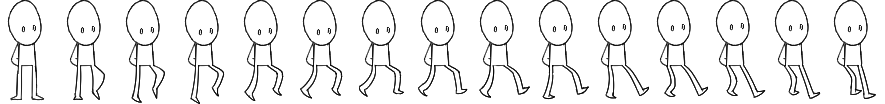
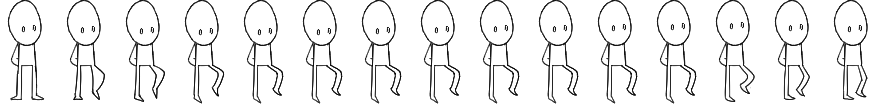
Fixed player movement (almost, jumping is weird)

diff --git a/Source/Entity.cpp b/Source/Entity.cpp
@@ -11,14 +11,14 @@
 #include "Application.h"
 #include "Timer.h"
 
-#define BOUNDED(var) (var > -0.001f && var < 0.001f)
+#define BOUNDED(var) (var > -0.0000001f && var < 0.0000001f)
 
 /*************************** ENTITY IMPLEMENTATIONS ******************************/
 
 // Entity constructor which will provide basic establishment for all entities
 Entity::Entity(int x_pos, int y_pos, double height, double width, Application* application) : 
    Element(x_pos, y_pos, height, width, application),
-   has_jumped_(false), health(0), shift_(false) {
+   has_jumped_(0), health(0), shift_(false) {
 }
 
 // Update function for all entities. For now all it does is call move
@@ -68,7 +68,8 @@ Player::Player(Application* application) :
    Entity(960, 412, 104, 37, application), player_state_(STAND),
    shooting(false), arm_delta_x(12), arm_delta_y(64),
    arm_delta_shoot_x(12), arm_delta_shoot_y(51), prev_pos_x_(0.0f), prev_pos_y_(0.0f),
-   immunity_duration_(0.5f) {
+   immunity_duration_(0.5f), key(NONE), last_key_pressed(NONE), lock_dir_left(false),
+   lock_dir_right(false), lock_dir_up(false) {
 
    // Set entity direction
    entity_direction = RIGHT;
@@ -163,13 +164,73 @@ Player::STATE Player::get_player_state() {
    return player_state_;
 }
 
+// Process keyboard input
+void Player::process_input(const Uint8 *key_state) {   
+   // Set last key pressed
+   if (key != NONE) {
+      last_key_pressed = key;
+   }
+
+   // Set key to none by default
+   key = NONE;
+
+   // Process left key
+   if (key_state[SDL_SCANCODE_LEFT]) {
+      if (!key_state[SDL_SCANCODE_RIGHT]) {
+         key = KEY_LEFT;
+         entity_direction = LEFT;
+         lock_dir_left = true;
+      }
+   } else {
+      lock_dir_left = false;
+   }
+
+   // Process right key
+   if (key_state[SDL_SCANCODE_RIGHT]) {
+      if (!key_state[SDL_SCANCODE_LEFT]) {
+         key = KEY_RIGHT;
+         entity_direction = RIGHT;
+         lock_dir_right = true;
+      }
+   } else {
+      lock_dir_right = false;
+   }
+
+   // Process up key
+   if (key_state[SDL_SCANCODE_UP]) {
+      if (!lock_dir_up) {
+         key = KEY_UP;
+         lock_dir_up = true;
+         //std::cout << "LOCK JUMP\n";
+      }
+   } else {
+      //std::cout << "UNLOCK JUMP\n";
+      lock_dir_up = false;
+   }
+
+   // Process down key
+   if (key_state[SDL_SCANCODE_DOWN]) {
+      key = KEY_DOWN;
+   }
+
+   // Process space key
+   if (key_state[SDL_SCANCODE_SPACE]) {
+      key = KEY_SPACE;
+   }
+}
+
 // Update function
 void Player::update(bool freeze) {
    //std::cout << "State: " << player_state_ << " (0: STAND, 1: RUN, 2: JUMP, 3: STOP, 4: RUN_AND_JUMP, 5: PUSH)" << std::endl;
    //std::cout << "X = " << body->GetLinearVelocity().x << " Y = " << body->GetLinearVelocity().y << std::endl;
+   //std::cout << "KEY = " << key << " LAST KEY PRESSED = " << last_key_pressed << std::endl;
+
    // Apply artificial force of gravity
    const b2Vec2 sim_grav = {0.0f, SIM_GRAV};
    body->ApplyForceToCenter(sim_grav, true);
+
+   // Process key inputs
+   //process_input(get_application()->e);
 
    // Animate the function
    animate();
@@ -402,8 +463,13 @@ void Player::move() {
       //player_state_ = STOP;
    }
 
+   // Check to see if player on the ground
+   if (BOUNDED(body->GetLinearVelocity().y)) {
+      has_jumped_ = 0;
+   }
+
    // Shooting
-   if (get_application()->current_key_states_[SDL_SCANCODE_SPACE]) {
+   if (key == KEY_SPACE) {
       // Set shooting to true
       shooting = true;
 
@@ -417,9 +483,9 @@ void Player::move() {
    }
 
    // Player running left
-   if (get_application()->current_key_states_[SDL_SCANCODE_LEFT]) {
+   if (key == KEY_LEFT && entity_direction != RIGHT) {
       // Check for flag
-      if (entity_direction == RIGHT) {
+      if (entity_direction == LEFT) {
          for (auto i = textures.begin(); i != textures.end(); i++) {
             i->second.has_flipped_ = true;
             i->second.flip_ = SDL_FLIP_HORIZONTAL;
@@ -432,7 +498,6 @@ void Player::move() {
          b2Vec2 vel = {-4.5f, body->GetLinearVelocity().y};
          body->SetLinearVelocity(vel);
       } else if (player_state_ == JUMP || player_state_ == RUN_AND_JUMP) {
-         has_jumped_ = true;
          b2Vec2 vel = {body->GetLinearVelocity().x, body->GetLinearVelocity().y};
          body->SetLinearVelocity(vel);
          if (body->GetLinearVelocity().x > -4.0f) {
@@ -445,15 +510,12 @@ void Player::move() {
          //player_state_ = RUN;
          in_contact = false;
       }
-            
-      // Set direction
-      entity_direction = LEFT;
    } 
 
    // Deal with basic movement for now
-   if (get_application()->current_key_states_[SDL_SCANCODE_RIGHT]) {
+   if (key == KEY_RIGHT && entity_direction != LEFT) {
       // Check for flag
-      if (entity_direction == LEFT) {
+      if (entity_direction == RIGHT) {
          for (auto i = textures.begin(); i != textures.end(); i++) {
             i->second.has_flipped_ = false;
             i->second.flip_ = SDL_FLIP_NONE;
@@ -466,7 +528,6 @@ void Player::move() {
          b2Vec2 vel = {5.5f, body->GetLinearVelocity().y};
          body->SetLinearVelocity(vel);
       } else if (player_state_ == JUMP || player_state_ == RUN_AND_JUMP) {
-         has_jumped_ = true;
          b2Vec2 vel = {body->GetLinearVelocity().x, body->GetLinearVelocity().y};
          body->SetLinearVelocity(vel);
          if (body->GetLinearVelocity().x < 4.0f) {
@@ -479,14 +540,13 @@ void Player::move() {
          //player_state_ = RUN;
          in_contact = false;
       }
-            
-      // Set direction
-      entity_direction = RIGHT;
    }
    
    // Player jumping
-   if (get_application()->current_key_states_[SDL_SCANCODE_UP]) {
-      if (!has_jumped_) {
+   //std::cout << "KEY = " << key << std::endl;
+   if (key == KEY_UP) {
+      std::cout << "IN JUMP, has_jumped = " << has_jumped_ << std::endl;
+      if (has_jumped_ < 2) {
          // Set state
          if (player_state_ == RUN) {
             //player_state_ = RUN_AND_JUMP;
@@ -503,17 +563,20 @@ void Player::move() {
          body->ApplyLinearImpulse(force, body->GetPosition(), true);
 
          // Set the flags
-         has_jumped_ = true;
+         has_jumped_++;
       } else {
          if (BOUNDED(body->GetLinearVelocity().y)) {
-            has_jumped_ = false;
+            has_jumped_ = 0;
             textures["jump"].reset_frame = 0;
             textures["jump"].frame_ = 0;
          }
       }
+
+      // Reset key...
+      key = NONE;
    } 
    
-   if (get_application()->current_key_states_[SDL_SCANCODE_DOWN]) {
+   if (key == KEY_DOWN) {
      // Need to revisit this
      //b2Vec2 down = {0.0f, -0.2f};
      //body->ApplyLinearImpulse(down, body->GetPosition(), true);
@@ -546,16 +609,16 @@ bool Player::load_media() {
    bool success = true;
 
    // Load player idle
-   load_image(textures, this, 59, 104, 12, 1.0f / 20.0f, "idle", "images/player/idle_tap_no_arm.png", success);
+   load_image(textures, this, 59, 104, 12, 1.0f / 24.0f, "idle", "images/player/idle_tap_no_arm.png", success);
 
    // Load player jumping idly
-   load_image(textures, this, 59, 104, 15, 1.0f / 20.0f, "jump", "images/player/idle_jump_no_arm.png", success);
+   load_image(textures, this, 59, 104, 15, 1.0f / 24.0f, "jump", "images/player/idle_jump_no_arm.png", success);
 
    // Load player running
-   load_image(textures, this, 59, 104, 15, 1.0f / 20.0f, "running", "images/player/running_no_arm.png", success);
+   load_image(textures, this, 59, 104, 15, 1.0f / 30.0f, "running", "images/player/running_no_arm.png", success);
 
    // Load jump and run
-   load_image(textures, this, 62, 104, 17, 1.0f / 20.0f, "running_jump", "images/player/running_jump_no_arm.png", success);
+   load_image(textures, this, 62, 104, 17, 1.0f / 24.0f, "running_jump", "images/player/running_jump_no_arm.png", success);
 
    // Load arm
    load_image(textures, this, 7, 24, 5, 1.0f / 20.0f, "idle_arm", "images/player/idle_arm.png", success);

diff --git a/Source/Application.cpp b/Source/Application.cpp
@@ -519,6 +519,9 @@ void Application::main_screen() {
       }
    }
 
+   // Process player inputs
+   player->process_input(current_key_states_);
+
    /* ANIMATION FOR TITLE SCREEN */
    // Animate background
    animate(menu_background_.texture.fps, &menu_background_, &menu_background_.texture, 
@@ -647,6 +650,12 @@ void Application::playground() {
 
    // Start cap timer
    capTimer.start();
+      
+   // Calculate and correct fps
+   float avgFPS = countedFrames / ( fpsTimer.getTicks() / 1000.f );
+   if( avgFPS > 2000000 ) {
+      avgFPS = 0;
+   }
 
    // Get current keyboard states
    current_key_states_ = SDL_GetKeyboardState(NULL);
@@ -660,12 +669,6 @@ void Application::playground() {
       if (level_flag_ == LEVEL16 & e.type == SDL_KEYDOWN) {
          app_flag_ = MAIN_SCREEN;
       }
-   }
-      
-   // Calculate and correct fps
-   float avgFPS = countedFrames / ( fpsTimer.getTicks() / 1000.f );
-   if( avgFPS > 2000000 ) {
-      avgFPS = 0;
    }
 
    /******** UPDATE THE LEVEL *************/
@@ -694,12 +697,28 @@ void Application::playground() {
 
    // Update player
    if (player->is_alive()) {
+      // Process player inputs
+      player->process_input(current_key_states_);
+
       // Update player
       player->update();
 
       // Render the hit markers
       for (int i = 0; i < player->hit_markers.size(); i++) {
          player->hit_markers[i]->update();
+      }
+
+      // Check for completed level and that player as walked to the edge of the screen
+      if (completed_level_ && player->get_x() >= 1890) {
+         // Destroy the level
+         delete level;
+
+         // Change mode to setup
+         game_flag_ = SETUP;
+
+         // Increment level_flag_
+         int inc = static_cast<int>(level_flag_);
+         level_flag_ = static_cast<LEVELS>(inc + 1);
       }
    } else {
       app_flag_ = GAMEOVER_SCREEN;
@@ -733,19 +752,6 @@ void Application::playground() {
    if (frameTicks < SCREEN_TICKS_PER_FRAME) {
       // Wait remaining time
       SDL_Delay(SCREEN_TICKS_PER_FRAME - frameTicks);
-   }
-
-   // Check for completed level and that player as walked to the edge of the screen
-   if (completed_level_ && player->get_x() >= 1890) {
-      // Destroy the level
-      delete level;
-
-      // Change mode to setup
-      game_flag_ = SETUP;
-
-      // Increment level_flag_
-      int inc = static_cast<int>(level_flag_);
-      level_flag_ = static_cast<LEVELS>(inc + 1);
    }
 }
 

diff --git a/Source/Entity.h b/Source/Entity.h
@@ -24,7 +24,7 @@ class Entity : public Element {
         Entity(int x_pos, int y_pos, double height, double width, Application* application);
 
         // Flags
-        bool has_jumped_;
+        int has_jumped_;
 
         // Movement and updating
         virtual void move() = 0;
@@ -129,6 +129,23 @@ class Player : public Entity {
          DEATH
       };
 
+      // Enum for current key
+      enum KEYS {
+         NONE,
+         KEY_LEFT,
+         KEY_RIGHT,
+         KEY_UP,
+         KEY_DOWN,
+         KEY_SPACE
+      };
+      KEYS key;
+      KEYS last_key_pressed;
+
+      // Flag for locking direction
+      bool lock_dir_left;
+      bool lock_dir_right;
+      bool lock_dir_up;
+
       // Shooting flag
       bool shooting;
 
@@ -154,6 +171,7 @@ class Player : public Entity {
       void change_player_state();
 
       // Update function now done in player
+      void process_input(const Uint8 *key_state);
       virtual void update(bool freeze = false);
       virtual void animate(Texture *tex = NULL, int reset = 0, int max = 0, int start = 0);
       virtual void move();
